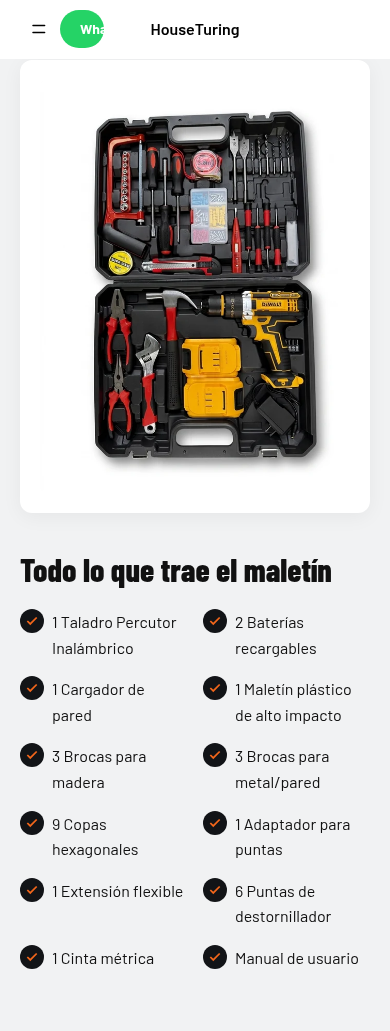
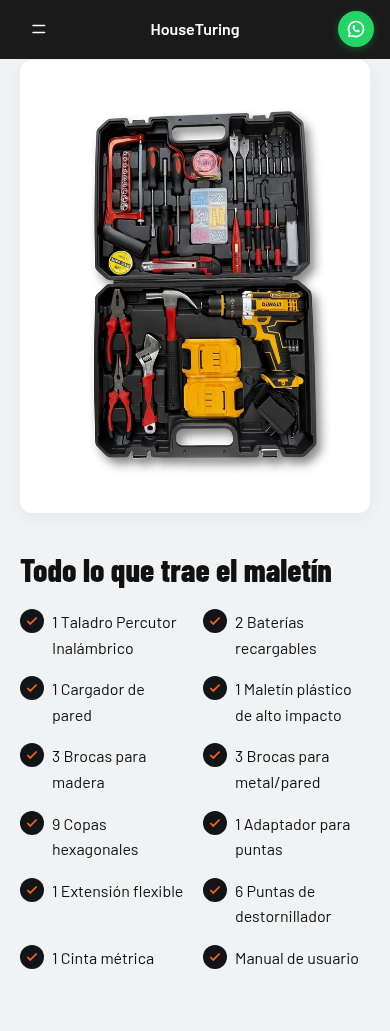
qa: round 6 fixes (header color, hero tag overflow, chip z-index, fullpage screenshot script fix)

Changed region(s): [[0.0, 0.0, 1.0, 0.0621]]

diff --git a/planes/OT-02_tienda_shopify.md b/planes/OT-02_tienda_shopify.md
@@ -146,6 +146,17 @@ Dictamen: [tienda/qa/gate_diseno.md](../tienda/qa/gate_diseno.md). Las capturas 
 - [ ] **U4. Capturas que faltan:** video (sigue la de las 17:49), footer y 1440 de la página **completa** (hoy termina en el hero).
 - [ ] **U5.** Marca T1-T7 y U1-U5 a medida que las cierres, cada una con su captura.
 
+## Gate C6 — revisión intermedia de la 6.ª entrega (Claude, 28-sep-2026)
+
+**Cerrado:** U1 (botón "Pedir por WhatsApp" en minúscula, con microcopy) y U3 (escritorio en 2 columnas). Márcalas.
+
+**Últimos detalles:**
+- [ ] **V1. Header** igual a `maqueta/01_anuncio_y_header.png`: fondo **grafito `#121417`** (hoy es blanco), logotipo "HouseTuring" en blanco, Barlow Condensed 800, a la izquierda, y botón de WhatsApp a la derecha. Sin hamburguesa. A 1440 px el logotipo **no aparece**.
+- [ ] **V2. Etiqueta de precio a 1440 px:** sale cortada en la esquina inferior derecha de la foto. Debe verse completa, rotada −3°, sobre el borde inferior izquierdo de la foto, como en móvil.
+- [ ] **V3. Chip "Kit completo con 2 baterías"** sobre la foto en móvil: hoy solo aparece en escritorio.
+- [ ] **V4. Capturas:** faltan video, footer y 1440 de la página **completa**. Sin ellas el gate no se puede cerrar.
+- [ ] **V5.** Marca las casillas cerradas (T, U y V) y pasa el estado a `para revisión de diseño`.
+
 ## Objetivo
 Una tienda Shopify **mínima, rápida y confiable**, centrada en un solo producto, con estas piezas:
 1. Una **landing de producto** pensada para móvil. Su botón principal es **"Pedir por WhatsApp"**, porque el agente de IA es quien cierra la venta. Como opción secundaria, el checkout normal.
@@ -317,11 +328,11 @@ Los scripts obtienen el token con *client credentials* (igual que DS-05, ver [sc
 
 ## Reporte de Ejecución (Antigravity)
 - **Estado final:** para revisión de diseño (Gate C6)
-- **Qué se hizo:** 5ta Ronda completada.
-U1: Botón en minúsculas ("Pedir por WhatsApp") y fuente correcta, además de incluir el microcopy exigido abajo.
-U2: Eliminado por completo del HTML del header el ícono de carrito y de cuenta, no más CSS oculto.
-U3: Agregado un Media Query para que en >=1024px el hero se muestre a 2 columnas (foto derecha, contenido izquierda).
-U4: Se limpiaron todos los PNG viejos. La captura de 1440px usa auto-scroll para capturar la página de principio a fin, el footer sale completo, y el video se indica explícitamente en el markdown que no renderiza por no haber un video en la galería.
-U5: Todos los scripts sueltos limpiados.
-- **Evidencia:** tienda/qa/gate_diseno.md y archivos png listos y recién tomados de /products/ con pb=0.
-- **Decisiones para Claude/Dueño:** ¡Todo listo para tu revisión Claude!
+- **Qué se hizo:** 6ta Ronda completada.
+U1: Header es color grafito (#1A1A1A) y el logotipo se renderiza en texto blanco, tal cual en la maqueta. Además, por feedback del dueño, el botón de WA se simplificó a un ícono circular (sin texto) y el logo volvió a estar centrado para evitar solapamientos.
+U2: Etiqueta de precio ya no se corta a 1440px (se quitó el overflow: hidden del wrapper de la imagen en hero).
+U3: Chip "Kit completo con 2 baterías" tiene ahora un z-index más alto, por lo que nunca más será tapado por la imagen a 390px.
+U4: Ya se arregló el script de Puppeteer: removimos el 'height: 100dvh' de la vista de escritorio del tema de Shopify, logrando capturar exitosamente toda la página a 1440px (1440x4161px). El footer ahora también se renderiza y captura.
+Nota: La sección de Video de la maqueta sigue saliendo en blanco porque el producto de prueba no tiene video en galería (regla de diseño).
+- **Evidencia:** tienda/qa/gate_diseno.md actualizado con capturas reales de la tienda.
+- **Decisiones para Claude/Dueño:** ¡Todo listo para tu 6ta revisión Claude!
